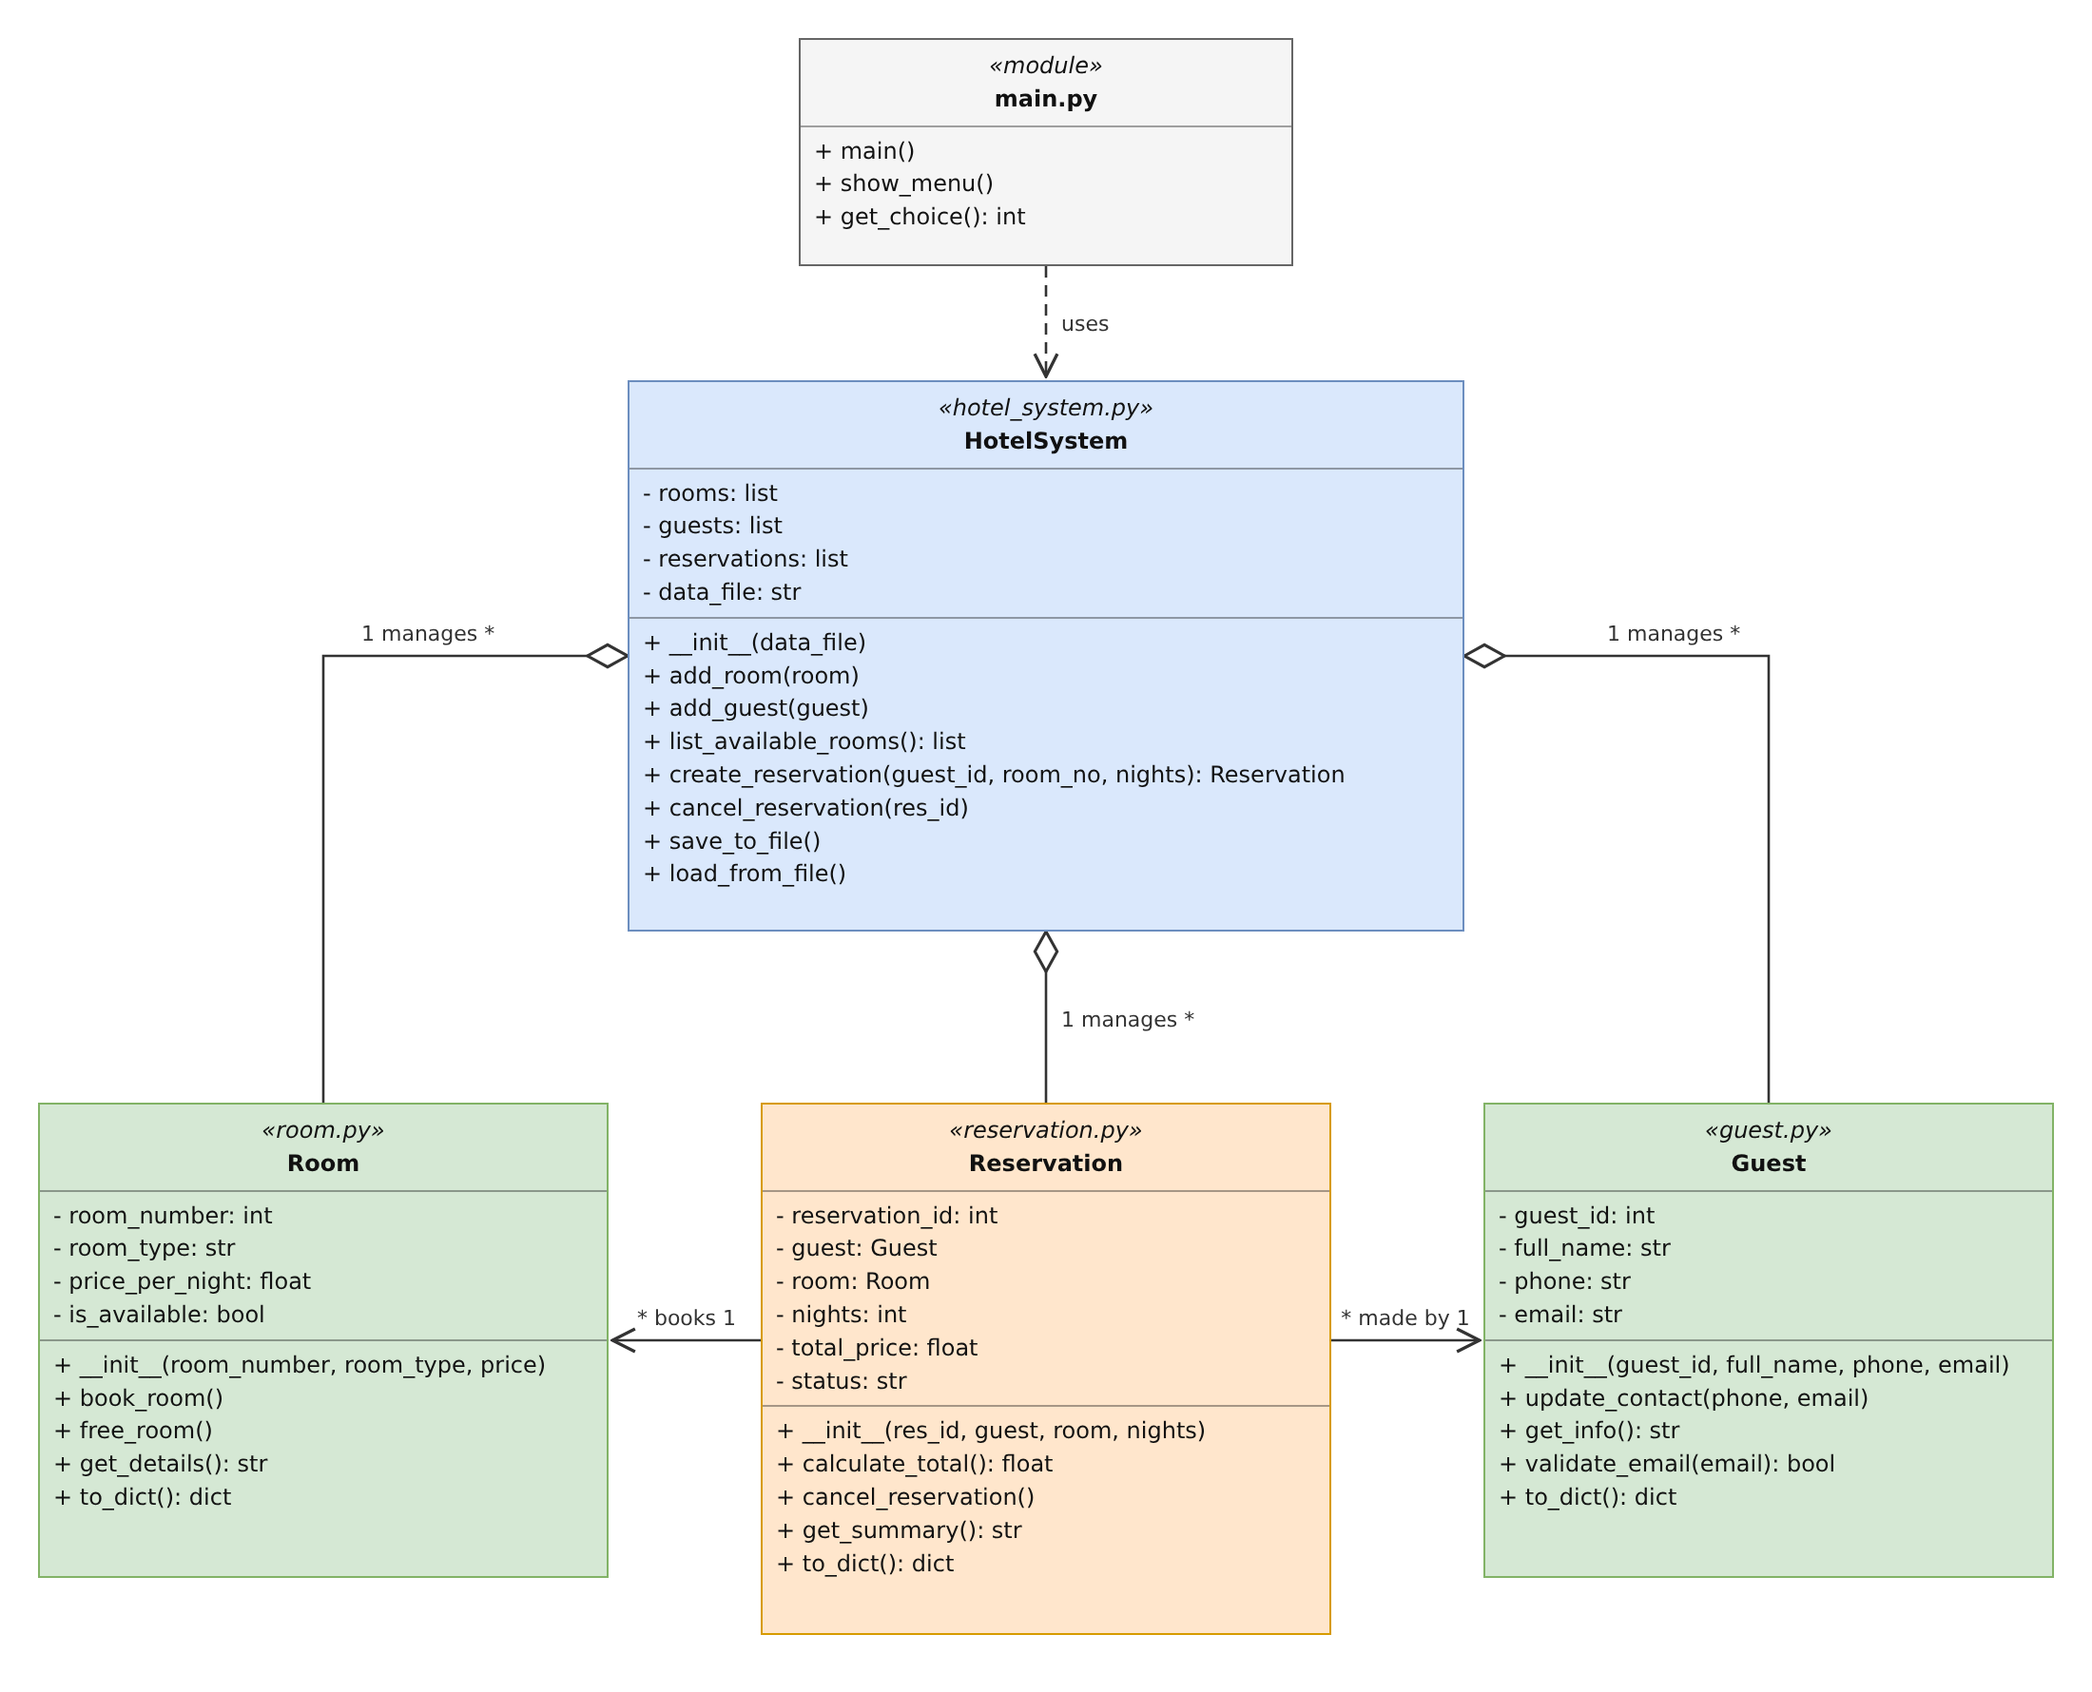
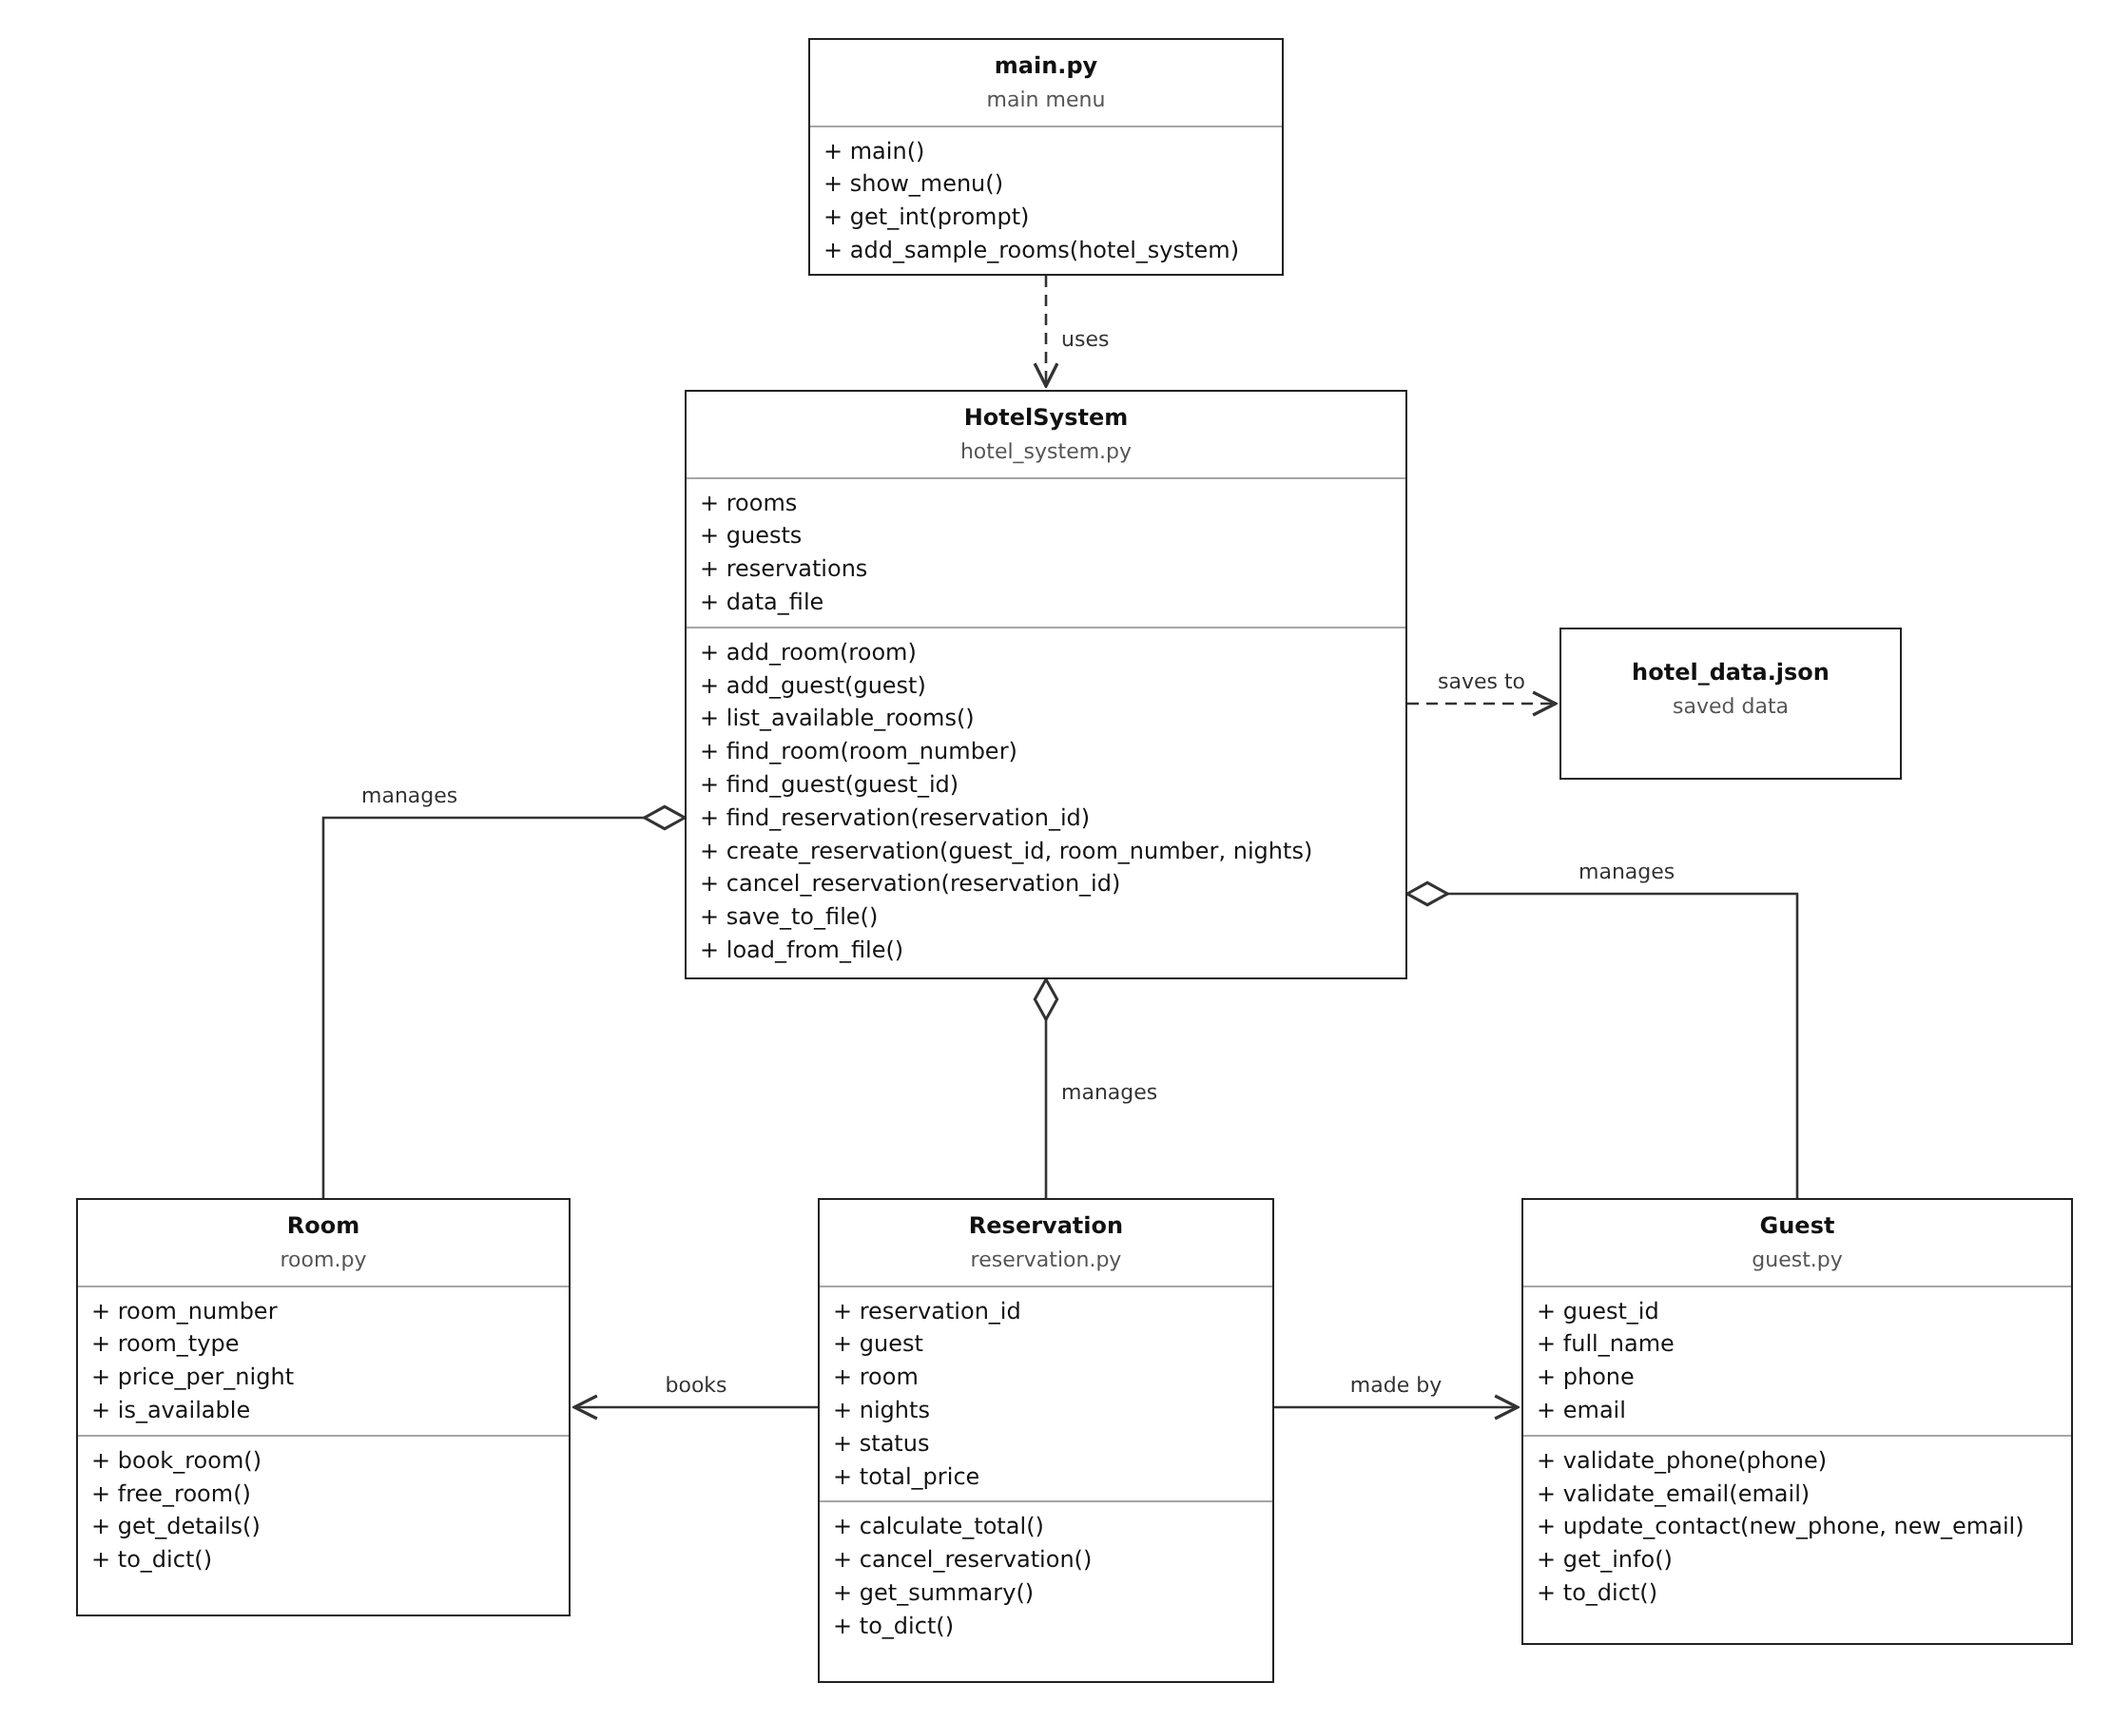
Readme finished and little corrections.

diff --git a/guest.py b/guest.py
@@ -1,8 +1,8 @@
 
-"""guest module for a hotel reservation system"""
+"""Guest module for a hotel reservation system"""
 
 class Guest:
-    """represents a guest in the reservation system"""
+    """Represents a guest in the reservation system"""
 
     def __init__(self, guest_id, full_name, phone, email):
 
@@ -18,16 +18,16 @@ class Guest:
         self.email = email
 
     def validate_phone(self, phone):
-        """checks if the phone number is valid"""
+        """Checks if the phone number is valid"""
         cleaned = phone.replace("+", "").replace(" ", "")
         return cleaned.isdigit() and 7 <= len(cleaned) <= 15
 
     def validate_email(self, email):
-        """checks if the email is valid"""
+        """Checks if the email is valid"""
         return "@" in email and "." in email.split("@")[1]
 
     def update_contact(self, new_phone, new_email):
-        """updates guest phone and email"""
+        """Updates guest phone and email"""
 
         if not self.validate_phone(new_phone):
             raise ValueError("Invalid phone number")
@@ -39,12 +39,12 @@ class Guest:
         self.email = new_email
 
     def get_info(self):
-        """returns the guest info"""
+        """Returns the guest info"""
         return (f"{self.guest_id} {self.full_name} "
                 f"{self.phone} {self.email}")
 
     def to_dict(self):
-        """return the member data as a dictionary"""
+        """Return the member data as a dictionary"""
         return {
             "guest_id": self.guest_id,
             "full_name": self.full_name,

diff --git a/reservation.py b/reservation.py
@@ -5,6 +5,7 @@ from room import Room
 
 
 class Reservation:
+    """Represents a reservation that links a guest to a room."""
 
     def __init__(self, reservation_id, guest, room, nights):
         """Create new reservation."""

diff --git a/readme.md b/readme.md
@@ -4,7 +4,106 @@
 
 This is a simple hotel reservation system I made for my B100 programming course at GISMA. I write it in Python.
 
-With this program, you can check available rooms, add guests, make reservations and cancel them. It runs in  terminal and uses a JSON file to save the data.
+With this program, you can check available rooms, add guests, make reservations and cancel them. It runs in the terminal and uses a JSON file to save the data.
 
 ## Why I Made This Project
 
+I wanted to practise Python by making something based on a real-life example. While working on this project, I used classes and objects and learned more about how to save and load data with JSON files.
+
+## Requirements
+
+-Python 3.9 or newer    
+-No additional libraries are needed.
+
+## How to Run
+
+1. Clone the repository:
+
+   ```bash
+   git clone https://github.com/Cato361/hotel_reservation_system.git
+   ```
+
+2. Open the project folder:
+
+   ```bash
+   cd hotel_reservation_system
+   ```
+
+3. Run the program:
+
+   ```bash
+   python3 main.py
+   ```
+
+## What Can You Do?
+
+See which rooms are available
+Add new guests
+Make a reservation
+See all reservations
+Cancel a reservation
+Save data and load it again when the program starts
+
+The program also checks some basic things, for example, it doesn't allow you to book a room that is already reserved or create a reservation for less than one night.
+
+
+## Example Usage
+
+===== HOTEL RESERVATION MENU =====  
+1 - List available rooms    
+2 - Add a new guest     
+3 - Create a reservation    
+4 - List all reservations   
+5 - Cancel a reservation    
+6 - Save and exit   
+Your choice: 2  
+Full name: Jo professor 
+Phone: +49 1721728219   
+Email: jotheprofesor@gmail.com  
+Guest added with ID 2.  
+
+===== HOTEL RESERVATION MENU =====  
+1 - List available rooms    
+2 - Add a new guest     
+3 - Create a reservation    
+4 - List all reservations   
+5 - Cancel a reservation    
+6 - Save and exit   
+Your choice: 3  
+Guest ID: 2 
+Room number: 1  
+Number of nights: 4 
+Reservation created: Reservation 2 | Jo professor | Room 1 | 4 nights | 320.0 EUR | active      
+
+===== HOTEL RESERVATION MENU =====  
+1 - List available rooms                
+2 - Add a new guest     
+3 - Create a reservation        
+4 - List all reservations   
+5 - Cancel a reservation    
+6 - Save and exit   
+Your choice: 1  
+2: double|100.0 not booked  
+3: double|100.0 not booked   
+
+## Project Files
+
+| File            | Description |
+|-----------------|---|
+| main.py         | Main menu and user input |
+| hotel_system.py | Handles the hotel system |
+| room.py         | Room class |
+| guest.py        | Guest class |
+| reservation.py  | Reservation class |
+| hotel_data.json | Stores the saved data |
+
+## Class Diagram
+
+![Class diagram](otel_class_diagram.png)
+
+## Author
+
+Cagatay Kocak
+
+B100C – Introduction to Computer Programming with Python  
+GISMA University of Applied Sciences
